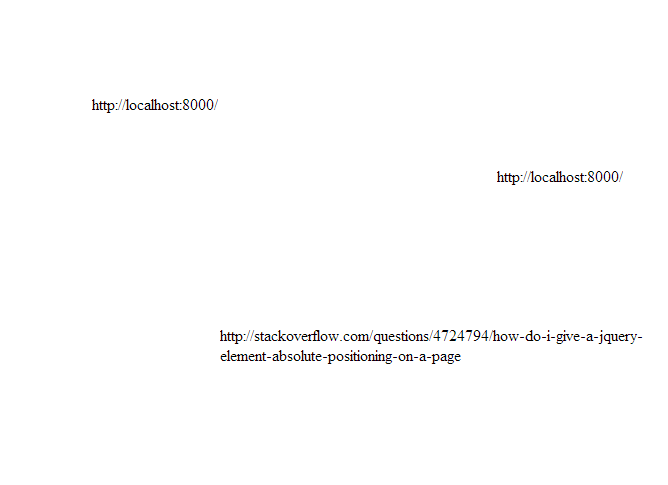
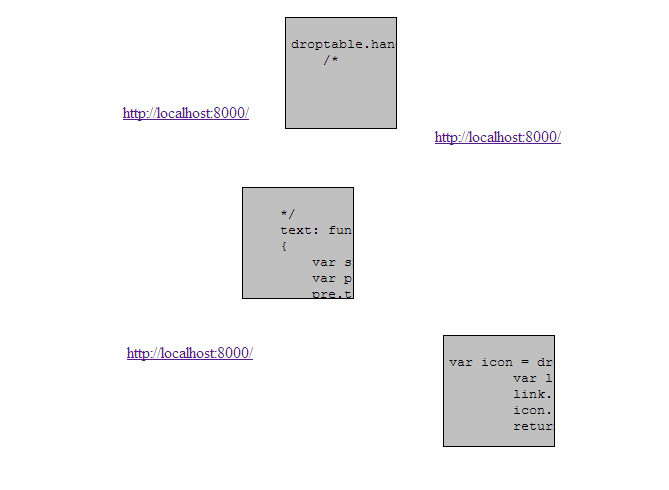
Added basic preview of dropped text

diff --git a/src/ui.js b/src/ui.js
@@ -4,7 +4,20 @@ droptable.ui = {
     */
     iconbase: function(x, y)
     {
-        var icon = $('<div class="dropicon url"></div>');
+        var icon = $('<div class="dropped icon url"></div>');
+        icon.css({
+            top: y,
+            left: x
+        });
+        return icon;
+    },
+
+    /*
+        Creates the basic snippet html
+    */
+    snippetbase: function(x, y)
+    {
+        var icon = $('<div class="dropped snippet text"></div>');
         icon.css({
             top: y,
             left: x
@@ -27,19 +40,25 @@ droptable.ui = {
             return;
         }
 
-        var artifact = null;
+        var artefact = null;
         var dropData = new DropData(dropEvent.pageX, dropEvent.pageY);
         if (types.contains('text/uri-list'))
         {
             dropData.data = dropEvent.dataTransfer.getData('text/uri-list');
-            artifact = droptable.handlers.url(dropData);
+            artefact = droptable.handlers.url(dropData);
+        }
+        else if (types.contains('text/plain') || types.contains('text'))
+        {
+            dropData.data = dropEvent.dataTransfer.getData('text/plain');
+            dropData.data = dropData.data || dropEvent.dataTransfer.getData('text/');
+            artefact = droptable.handlers.text(dropData);
         }
 
-        // post-condition the artifact if we have one
-        if (artifact !== null)
+        // post-condition the artefact if we have one
+        if (artefact !== null)
         {
-            $('#droptable').append(artifact);
-            $(artifact).draggable();
+            $('#droptable').append(artefact);
+            $(artefact).draggable();
         }
     }
 }

diff --git a/src/handlers.js b/src/handlers.js
@@ -5,15 +5,26 @@
 */
 droptable.handlers = {
     /*
-        Handler for an URL - shows a clickable icon of the url
+        Handler for a URL - shows a clickable icon of the url
     */
     url: function(dropData)
     {
         var icon = droptable.ui.iconbase(dropData.x, dropData.y);
-        console.log(icon);
         var link = $('<a href="" target="_new"></a>');
         link.text(dropData.data);
         icon.append(link);
         return icon;
+    },
+
+    /*
+        Handler for a block of plain text - shows a preview
+    */
+    text: function(dropData)
+    {
+        var snippet = droptable.ui.snippetbase(dropData.x, dropData.y);
+        var pre = $('<pre></pre>');
+        pre.text(dropData.data);
+        snippet.append(pre);
+        return snippet;
     }
 }

diff --git a/src/style.css b/src/style.css
@@ -13,8 +13,18 @@ textarea
     height:100%;
 }
 
-.dropicon
+.dropped
 {
     position: absolute;
     cursor: pointer;
+}
+
+.snippet
+{
+    border:1px solid black;
+    background-color: silver;
+    width: 100px;
+    height: 100px;
+    padding: 5px;
+    overflow: hidden;
 }
